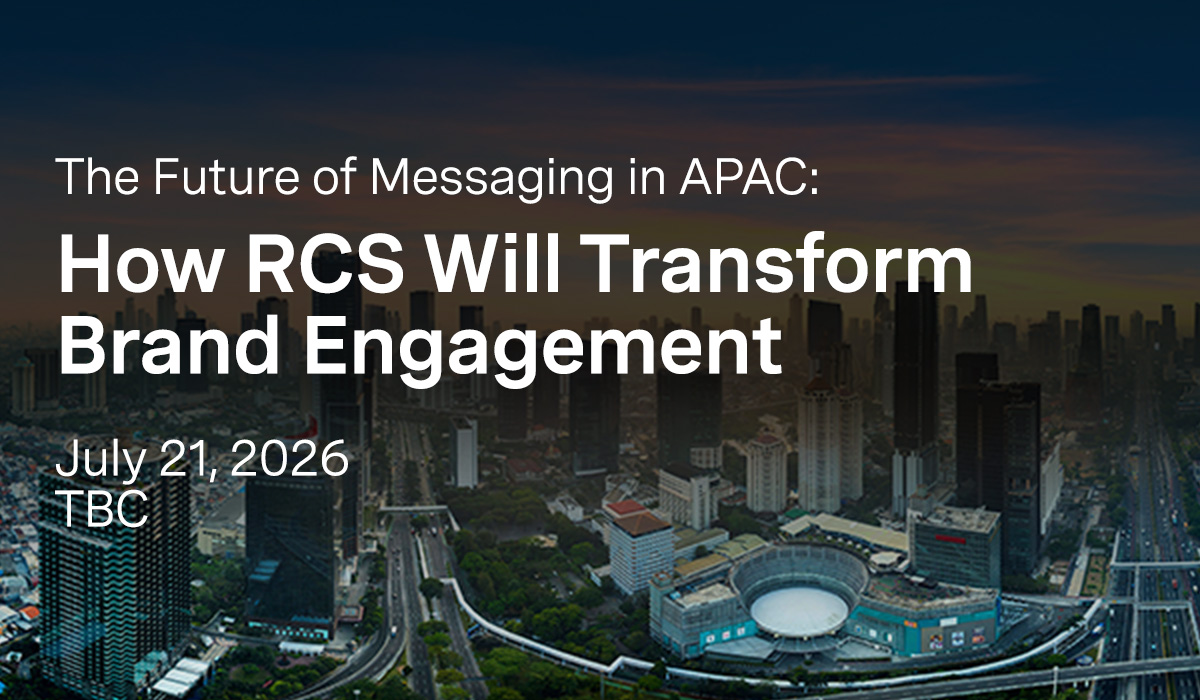
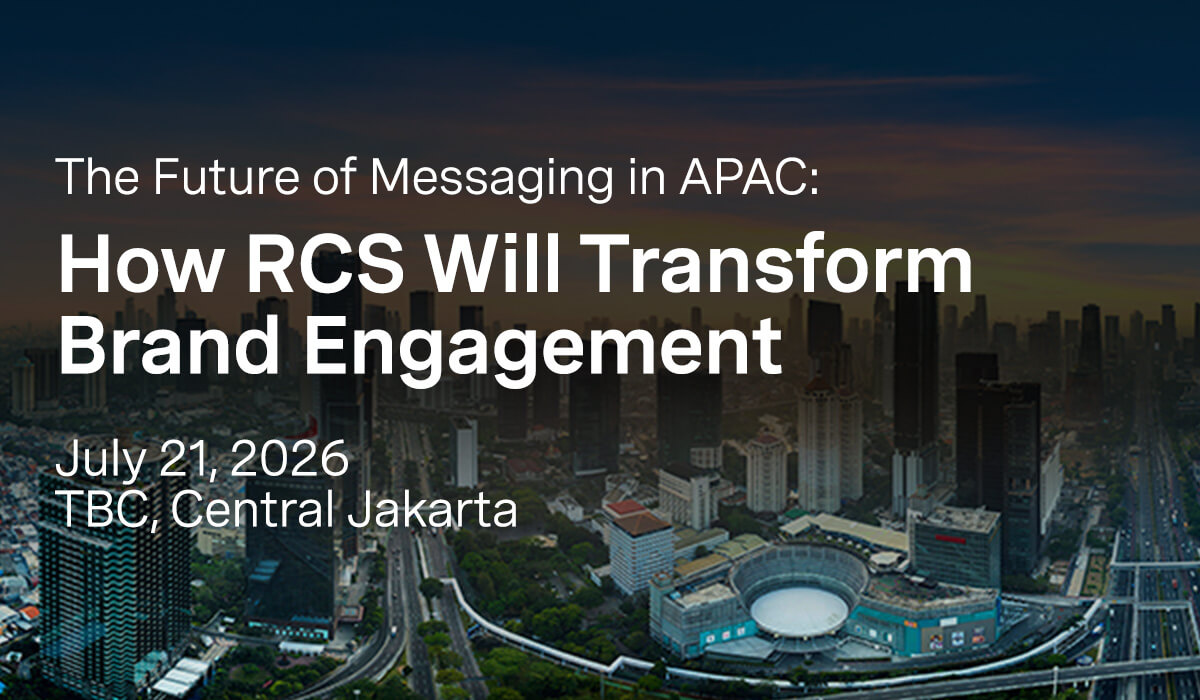
Update TBC, Central Jakarta

Changed region(s): [[0.1233, 0.69, 0.4317, 0.75]]

diff --git a/index.html b/index.html
@@ -51,4 +51,4 @@
             a[x-apple-data-detectors] { color: inherit !important; text-decoration: none !important; font-size: inherit !important; font-family: inherit !important;vfont-weight: inherit !important; line-height: inherit !important; }
             @media only screen and (max-width:480px) {  
             }
-    </style><meta name="color-scheme" content="light"><meta name="supported-color-schemes" content="light"></head><body class="body-wrapper" style="word-spacing:normal;background-color:#ffffff;"> <div aria-label="Confirmation" aria-roledescription="email" role="article" lang="en" dir="ltr" style="word-spacing:normal;background-color:#ffffff;"> <!--[if mso | IE]><table align="center" border="0" cellpadding="0" cellspacing="0" class="" role="presentation" style="width:600px;" width="600" ><tr><td style="line-height:0px;font-size:0px;mso-line-height-rule:exactly;"><![endif]--> <div style="margin:0px auto;max-width:600px;"> <table align="center" border="0" cellpadding="0" cellspacing="0" role="presentation" style="width:100%;"> <tbody> <tr> <td style="direction:ltr;font-size:0px;padding:0;text-align:center;"> <!--[if mso | IE]><table role="presentation" border="0" cellpadding="0" cellspacing="0"><tr><td class="" style="vertical-align:top;width:600px;" ><![endif]--> <div class="mj-column-per-100 mj-outlook-group-fix" style="font-size:0px;text-align:left;direction:ltr;display:inline-block;vertical-align:top;width:100%;"> <table border="0" cellpadding="0" cellspacing="0" role="presentation" width="100%"> <tbody> <tr> <td style="vertical-align:top;padding:0;"> <table border="0" cellpadding="0" cellspacing="0" role="presentation" width="100%"> <tbody> <tr> <td align="right" style="font-size:0px;padding:10px;word-break:break-word;"> <div style="font-family:Roboto, sans-serif;font-size:12px;line-height:22px;text-align:right;color:#A1A1A1;">No images? <webversion style="color: #A1A1A1; text-decoration: underline; font-family: Roboto, sans-serif; font-size: 12px; line-height: 22px; color: #A1A1A1; text-decoration: underline; cursor:pointer;"> <span style="color: #A1A1A1; text-decoration: underline; font-family: Roboto, sans-serif; font-size: 12px; line-height: 22px; color: #A1A1A1; text-decoration: underline; cursor:pointer;">Click here</span> </webversion></div> </td> </tr> </tbody> </table> </td> </tr> </tbody> </table> </div> <!--[if mso | IE]></td></tr></table><![endif]--> </td> </tr> </tbody> </table> </div> <!--[if mso | IE]></td></tr></table><table align="center" border="0" cellpadding="0" cellspacing="0" class="" role="presentation" style="width:600px;" width="600" ><tr><td style="line-height:0px;font-size:0px;mso-line-height-rule:exactly;"><![endif]--> <div style="margin:0px auto;max-width:600px;"> <table align="center" border="0" cellpadding="0" cellspacing="0" role="presentation" style="width:100%;"> <tbody> <tr> <td style="direction:ltr;font-size:0px;padding:0;text-align:center;"> <!--[if mso | IE]><table role="presentation" border="0" cellpadding="0" cellspacing="0"><tr><td class="" style="vertical-align:top;width:600px;" ><![endif]--> <div class="mj-column-per-100 mj-outlook-group-fix" style="font-size:0px;text-align:left;direction:ltr;display:inline-block;vertical-align:top;width:100%;"> <table border="0" cellpadding="0" cellspacing="0" role="presentation" width="100%"> <tbody> <tr> <td style="vertical-align:top;padding:0;"> <table border="0" cellpadding="0" cellspacing="0" role="presentation" width="100%"> <tbody> <tr> <td align="center" style="font-size:0px;padding:0;word-break:break-word;"> <table border="0" cellpadding="0" cellspacing="0" role="presentation" style="border-collapse:collapse;border-spacing:0px;"> <tbody> <tr> <td style="width:600px;"> <a href="https://indosat.vonagefuturesecure.com/" target="_blank"> <img alt="How RCS will transform Brand engagement" src="images/21Header.jpg" style="border:0;display:block;outline:none;text-decoration:none;height:auto;width:100%;font-size:13px;" width="600" height="auto"> </a> </td> </tr> </tbody> </table> </td> </tr> </tbody> </table> </td> </tr> </tbody> </table> </div> <!--[if mso | IE]></td></tr></table><![endif]--> </td> </tr> </tbody> </table> </div> <!--[if mso | IE]></td></tr></table><table align="center" border="0" cellpadding="0" cellspacing="0" class="" role="presentation" style="width:600px;" width="600" ><tr><td style="line-height:0px;font-size:0px;mso-line-height-rule:exactly;"><![endif]--> <div style="margin:0px auto;max-width:600px;"> <table align="center" border="0" cellpadding="0" cellspacing="0" role="presentation" style="width:100%;"> <tbody> <tr> <td style="direction:ltr;font-size:0px;padding:0;text-align:center;"> <!--[if mso | IE]><table role="presentation" border="0" cellpadding="0" cellspacing="0"><tr><td class="" style="vertical-align:top;width:600px;" ><![endif]--> <div class="mj-column-per-100 mj-outlook-group-fix" style="font-size:0px;text-align:left;direction:ltr;display:inline-block;vertical-align:top;width:100%;"> <table border="0" cellpadding="0" cellspacing="0" role="presentation" width="100%"> <tbody> <tr> <td style="vertical-align:top;padding:60px 30px 60px 30px;"> <table border="0" cellpadding="0" cellspacing="0" role="presentation" width="100%"> <tbody> <tr> <td align="left" style="font-size:0px;padding:0;padding-bottom:30px;word-break:break-word;"> <div style="font-family:Roboto, sans-serif;font-size:16px;line-height:26px;text-align:left;color:#000000;">Dear [firstname,fallback=],</div> </td> </tr> <tr> <td align="left" style="font-size:0px;padding:0;padding-bottom:30px;word-break:break-word;"> <div style="font-family:Roboto, sans-serif;font-size:16px;line-height:26px;text-align:left;color:#000000;">Thank you for registering for <b>The Future of Messaging in APAC: How RCS Will Transform Brand Engagement</b>, hosted by Vonage. We're pleased to confirm your attendance.</div> </td> </tr> <tr> <td align="left" style="font-size:0px;padding:0;padding-bottom:30px;word-break:break-word;"> <div style="font-family:Roboto, sans-serif;font-size:16px;line-height:36px;text-align:left;color:#000000;"><b>Event details:</b><br> 📅 21 July 2026<br> 🕙 10:00 AM - 3:00 PM<br> 📍 TBC</div> </td> </tr> <tr> <td align="left" style="font-size:0px;padding:0;padding-bottom:30px;word-break:break-word;"> <div style="font-family:Roboto, sans-serif;font-size:16px;line-height:22px;text-align:left;color:#000000;">You'll be joining industry leaders and experts from <b>Vonage</b> and <b>Indosat</b> to explore how RCS is shaping the future of business messaging in APAC. Additional event information, including venue details, will be sent ahead of the event.</div> </td> </tr> <tr> <td align="left" style="font-size:0px;padding:0;padding-bottom:30px;word-break:break-word;"> <div style="font-family:Roboto, sans-serif;font-size:16px;line-height:22px;text-align:left;color:#000000;">We look forward to seeing you there.</div> </td> </tr> <tr> <td align="left" style="font-size:0px;padding:0;word-break:break-word;"> <div style="font-family:Roboto, sans-serif;font-size:16px;line-height:22px;text-align:left;color:#000000;">Kind regards,<br> <b>Vonage</b><br> APAC RCS Event Team</div> </td> </tr> </tbody> </table> </td> </tr> </tbody> </table> </div> <!--[if mso | IE]></td></tr></table><![endif]--> </td> </tr> </tbody> </table> </div> <!--[if mso | IE]></td></tr></table><table align="center" border="0" cellpadding="0" cellspacing="0" class="" role="presentation" style="width:600px;" width="600" ><tr><td style="line-height:0px;font-size:0px;mso-line-height-rule:exactly;"><![endif]--> <div style="margin:0px auto;max-width:600px;"> <table align="center" border="0" cellpadding="0" cellspacing="0" role="presentation" style="width:100%;"> <tbody> <tr> <td style="direction:ltr;font-size:0px;padding:0 30px 60px 30px;text-align:center;"> <!--[if mso | IE]><table role="presentation" border="0" cellpadding="0" cellspacing="0"><tr><td class="" style="vertical-align:top;width:540px;" ><![endif]--> <div class="mj-column-per-100 mj-outlook-group-fix" style="font-size:0px;text-align:left;direction:ltr;display:inline-block;vertical-align:top;width:100%;"> <table border="0" cellpadding="0" cellspacing="0" role="presentation" width="100%"> <tbody> <tr> <td style="vertical-align:top;padding:0;"> <table border="0" cellpadding="0" cellspacing="0" role="presentation" width="100%"> <tbody> <tr> <td align="left" style="font-size:0px;padding:0;word-break:break-word;"> <div style="font-family:Roboto, sans-serif;font-size:12px;line-height:22px;text-align:left;color:#A1A1A1;"><preferences style="color: #A1A1A1; text-decoration: underline; font-family: Roboto, sans-serif; font-size: 12px; line-height: 22px; color: #A1A1A1; text-decoration: underline; cursor:pointer;"> <span style="color: #A1A1A1; text-decoration: underline; font-family: Roboto, sans-serif; font-size: 12px; line-height: 22px; color: #A1A1A1; text-decoration: underline; cursor:pointer;">Preferences</span> </preferences> &nbsp;&nbsp;|&nbsp;&nbsp; <unsubscribe style="color: #A1A1A1; text-decoration: underline; font-family: Roboto, sans-serif; font-size: 12px; line-height: 22px; color: #A1A1A1; text-decoration: underline; cursor:pointer;"> <span style="color: #A1A1A1; text-decoration: underline; font-family: Roboto, sans-serif; font-size: 12px; line-height: 22px; color: #A1A1A1; text-decoration: underline; cursor:pointer;">Unsubscribe</span> </unsubscribe></div> </td> </tr> </tbody> </table> </td> </tr> </tbody> </table> </div> <!--[if mso | IE]></td></tr></table><![endif]--> </td> </tr> </tbody> </table> </div> <!--[if mso | IE]></td></tr></table><![endif]--> </div> </body></html>
+    </style><meta name="color-scheme" content="light"><meta name="supported-color-schemes" content="light"></head><body class="body-wrapper" style="word-spacing:normal;background-color:#ffffff;"> <div aria-label="Confirmation" aria-roledescription="email" role="article" lang="en" dir="ltr" style="word-spacing:normal;background-color:#ffffff;"> <!--[if mso | IE]><table align="center" border="0" cellpadding="0" cellspacing="0" class="" role="presentation" style="width:600px;" width="600" ><tr><td style="line-height:0px;font-size:0px;mso-line-height-rule:exactly;"><![endif]--> <div style="margin:0px auto;max-width:600px;"> <table align="center" border="0" cellpadding="0" cellspacing="0" role="presentation" style="width:100%;"> <tbody> <tr> <td style="direction:ltr;font-size:0px;padding:0;text-align:center;"> <!--[if mso | IE]><table role="presentation" border="0" cellpadding="0" cellspacing="0"><tr><td class="" style="vertical-align:top;width:600px;" ><![endif]--> <div class="mj-column-per-100 mj-outlook-group-fix" style="font-size:0px;text-align:left;direction:ltr;display:inline-block;vertical-align:top;width:100%;"> <table border="0" cellpadding="0" cellspacing="0" role="presentation" width="100%"> <tbody> <tr> <td style="vertical-align:top;padding:0;"> <table border="0" cellpadding="0" cellspacing="0" role="presentation" width="100%"> <tbody> <tr> <td align="right" style="font-size:0px;padding:10px;word-break:break-word;"> <div style="font-family:Roboto, sans-serif;font-size:12px;line-height:22px;text-align:right;color:#A1A1A1;">No images? <webversion style="color: #A1A1A1; text-decoration: underline; font-family: Roboto, sans-serif; font-size: 12px; line-height: 22px; color: #A1A1A1; text-decoration: underline; cursor:pointer;"> <span style="color: #A1A1A1; text-decoration: underline; font-family: Roboto, sans-serif; font-size: 12px; line-height: 22px; color: #A1A1A1; text-decoration: underline; cursor:pointer;">Click here</span> </webversion></div> </td> </tr> </tbody> </table> </td> </tr> </tbody> </table> </div> <!--[if mso | IE]></td></tr></table><![endif]--> </td> </tr> </tbody> </table> </div> <!--[if mso | IE]></td></tr></table><table align="center" border="0" cellpadding="0" cellspacing="0" class="" role="presentation" style="width:600px;" width="600" ><tr><td style="line-height:0px;font-size:0px;mso-line-height-rule:exactly;"><![endif]--> <div style="margin:0px auto;max-width:600px;"> <table align="center" border="0" cellpadding="0" cellspacing="0" role="presentation" style="width:100%;"> <tbody> <tr> <td style="direction:ltr;font-size:0px;padding:0;text-align:center;"> <!--[if mso | IE]><table role="presentation" border="0" cellpadding="0" cellspacing="0"><tr><td class="" style="vertical-align:top;width:600px;" ><![endif]--> <div class="mj-column-per-100 mj-outlook-group-fix" style="font-size:0px;text-align:left;direction:ltr;display:inline-block;vertical-align:top;width:100%;"> <table border="0" cellpadding="0" cellspacing="0" role="presentation" width="100%"> <tbody> <tr> <td style="vertical-align:top;padding:0;"> <table border="0" cellpadding="0" cellspacing="0" role="presentation" width="100%"> <tbody> <tr> <td align="center" style="font-size:0px;padding:0;word-break:break-word;"> <table border="0" cellpadding="0" cellspacing="0" role="presentation" style="border-collapse:collapse;border-spacing:0px;"> <tbody> <tr> <td style="width:600px;"> <a href="https://indosat.vonagefuturesecure.com/" target="_blank"> <img alt="How RCS will transform Brand engagement" src="images/21Header.jpg" style="border:0;display:block;outline:none;text-decoration:none;height:auto;width:100%;font-size:13px;" width="600" height="auto"> </a> </td> </tr> </tbody> </table> </td> </tr> </tbody> </table> </td> </tr> </tbody> </table> </div> <!--[if mso | IE]></td></tr></table><![endif]--> </td> </tr> </tbody> </table> </div> <!--[if mso | IE]></td></tr></table><table align="center" border="0" cellpadding="0" cellspacing="0" class="" role="presentation" style="width:600px;" width="600" ><tr><td style="line-height:0px;font-size:0px;mso-line-height-rule:exactly;"><![endif]--> <div style="margin:0px auto;max-width:600px;"> <table align="center" border="0" cellpadding="0" cellspacing="0" role="presentation" style="width:100%;"> <tbody> <tr> <td style="direction:ltr;font-size:0px;padding:0;text-align:center;"> <!--[if mso | IE]><table role="presentation" border="0" cellpadding="0" cellspacing="0"><tr><td class="" style="vertical-align:top;width:600px;" ><![endif]--> <div class="mj-column-per-100 mj-outlook-group-fix" style="font-size:0px;text-align:left;direction:ltr;display:inline-block;vertical-align:top;width:100%;"> <table border="0" cellpadding="0" cellspacing="0" role="presentation" width="100%"> <tbody> <tr> <td style="vertical-align:top;padding:60px 30px 60px 30px;"> <table border="0" cellpadding="0" cellspacing="0" role="presentation" width="100%"> <tbody> <tr> <td align="left" style="font-size:0px;padding:0;padding-bottom:30px;word-break:break-word;"> <div style="font-family:Roboto, sans-serif;font-size:16px;line-height:26px;text-align:left;color:#000000;">Dear [firstname,fallback=],</div> </td> </tr> <tr> <td align="left" style="font-size:0px;padding:0;padding-bottom:30px;word-break:break-word;"> <div style="font-family:Roboto, sans-serif;font-size:16px;line-height:26px;text-align:left;color:#000000;">Thank you for registering for <b>The Future of Messaging in APAC: How RCS Will Transform Brand Engagement</b>, hosted by Vonage. We're pleased to confirm your attendance.</div> </td> </tr> <tr> <td align="left" style="font-size:0px;padding:0;padding-bottom:30px;word-break:break-word;"> <div style="font-family:Roboto, sans-serif;font-size:16px;line-height:36px;text-align:left;color:#000000;"><b>Event details:</b><br> 📅 21 July 2026<br> 🕙 10:00 AM - 3:00 PM<br> 📍 TBC, Central Jakarta</div> </td> </tr> <tr> <td align="left" style="font-size:0px;padding:0;padding-bottom:30px;word-break:break-word;"> <div style="font-family:Roboto, sans-serif;font-size:16px;line-height:22px;text-align:left;color:#000000;">You'll be joining industry leaders and experts from <b>Vonage</b> and <b>Indosat</b> to explore how RCS is shaping the future of business messaging in APAC. Additional event information, including venue details, will be sent ahead of the event.</div> </td> </tr> <tr> <td align="left" style="font-size:0px;padding:0;padding-bottom:30px;word-break:break-word;"> <div style="font-family:Roboto, sans-serif;font-size:16px;line-height:22px;text-align:left;color:#000000;">We look forward to seeing you there.</div> </td> </tr> <tr> <td align="left" style="font-size:0px;padding:0;word-break:break-word;"> <div style="font-family:Roboto, sans-serif;font-size:16px;line-height:22px;text-align:left;color:#000000;">Kind regards,<br> <b>Vonage</b><br> APAC RCS Event Team</div> </td> </tr> </tbody> </table> </td> </tr> </tbody> </table> </div> <!--[if mso | IE]></td></tr></table><![endif]--> </td> </tr> </tbody> </table> </div> <!--[if mso | IE]></td></tr></table><table align="center" border="0" cellpadding="0" cellspacing="0" class="" role="presentation" style="width:600px;" width="600" ><tr><td style="line-height:0px;font-size:0px;mso-line-height-rule:exactly;"><![endif]--> <div style="margin:0px auto;max-width:600px;"> <table align="center" border="0" cellpadding="0" cellspacing="0" role="presentation" style="width:100%;"> <tbody> <tr> <td style="direction:ltr;font-size:0px;padding:0 30px 60px 30px;text-align:center;"> <!--[if mso | IE]><table role="presentation" border="0" cellpadding="0" cellspacing="0"><tr><td class="" style="vertical-align:top;width:540px;" ><![endif]--> <div class="mj-column-per-100 mj-outlook-group-fix" style="font-size:0px;text-align:left;direction:ltr;display:inline-block;vertical-align:top;width:100%;"> <table border="0" cellpadding="0" cellspacing="0" role="presentation" width="100%"> <tbody> <tr> <td style="vertical-align:top;padding:0;"> <table border="0" cellpadding="0" cellspacing="0" role="presentation" width="100%"> <tbody> <tr> <td align="left" style="font-size:0px;padding:0;word-break:break-word;"> <div style="font-family:Roboto, sans-serif;font-size:12px;line-height:22px;text-align:left;color:#A1A1A1;"><preferences style="color: #A1A1A1; text-decoration: underline; font-family: Roboto, sans-serif; font-size: 12px; line-height: 22px; color: #A1A1A1; text-decoration: underline; cursor:pointer;"> <span style="color: #A1A1A1; text-decoration: underline; font-family: Roboto, sans-serif; font-size: 12px; line-height: 22px; color: #A1A1A1; text-decoration: underline; cursor:pointer;">Preferences</span> </preferences> &nbsp;&nbsp;|&nbsp;&nbsp; <unsubscribe style="color: #A1A1A1; text-decoration: underline; font-family: Roboto, sans-serif; font-size: 12px; line-height: 22px; color: #A1A1A1; text-decoration: underline; cursor:pointer;"> <span style="color: #A1A1A1; text-decoration: underline; font-family: Roboto, sans-serif; font-size: 12px; line-height: 22px; color: #A1A1A1; text-decoration: underline; cursor:pointer;">Unsubscribe</span> </unsubscribe></div> </td> </tr> </tbody> </table> </td> </tr> </tbody> </table> </div> <!--[if mso | IE]></td></tr></table><![endif]--> </td> </tr> </tbody> </table> </div> <!--[if mso | IE]></td></tr></table><![endif]--> </div> </body></html>